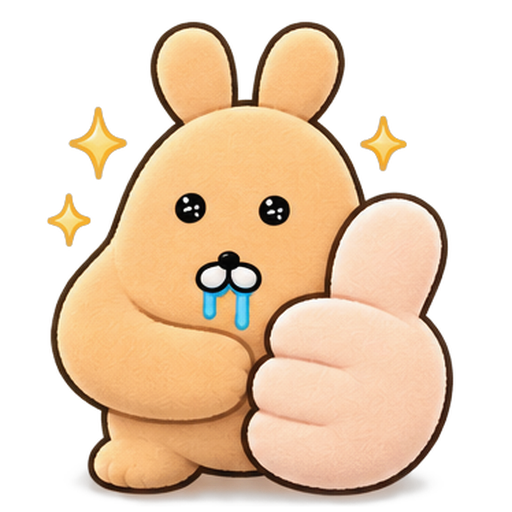
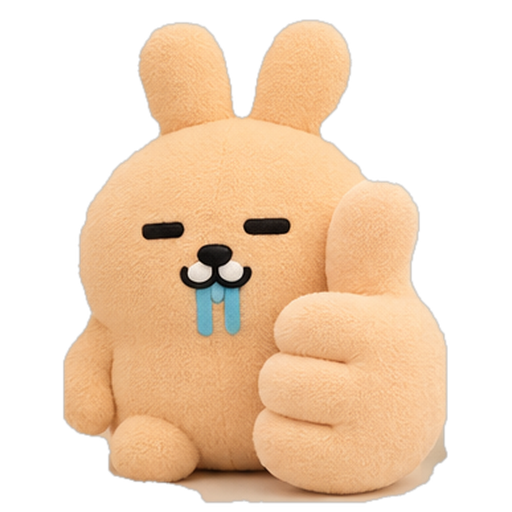
합성 인형 1~10번을 새 인형 그림으로 교체, 그림 주소에 버전 붙여 캐시 방지
Claude-Session: https://claude.ai/code/session_01V3xUegeneke7NXjHkEDUgh

diff --git a/claw/index.html b/claw/index.html
@@ -1373,7 +1373,7 @@ function loadSprites() {
       const im = new Image();
       im.onload = () => { SPR.doll[id] = makeHiddenSprite(im); res(); };
       im.onerror = () => res();
-      im.src = dir + '/' + id + '.png';
+      im.src = dir + '/' + id + '.png?v=' + APP_VERSION; // 같은 이름으로 그림을 바꿔도 새 그림을 받아요
     });
     return Promise.all([...FUSE_ART.map(id => art('fusion', id)), ...CH.map(id => art('plush', id))]);
   });
@@ -2133,7 +2133,7 @@ const easeBack = t => { const c1 = 1.9, c3 = c1 + 1; return 1 + c3 * (t - 1) ** 
 /* ══════════ 새 버전 자동 반영 ══════════ */
 // 휴대폰 브라우저가 예전 페이지를 기억하고 있으면 고친 내용이 안 보여요.
 // 올릴 때마다 version.txt와 APP_VERSION을 같이 바꾸면, 예전 페이지는 새 버전을 알아채고 한 번 새로고침해요.
-const APP_VERSION = '20261022-2359';
+const APP_VERSION = '20261023-0013';
 async function checkVersion() {
   try {
     const r = await fetch('version.txt?t=' + Date.now(), { cache: 'no-store' });
